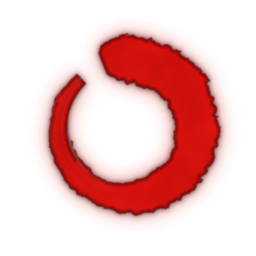
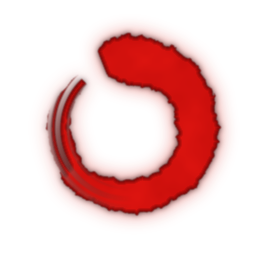
Итог раунда: знак кистью за заголовком — 死 при поражении (как экран смерти Секиро), 勝 при победе
Claude-Session: https://claude.ai/code/session_01JqUpyqddoJCmPqfiUgmopw

diff --git a/Assets/_Project/Scripts/Game/DuelHud.cs b/Assets/_Project/Scripts/Game/DuelHud.cs
@@ -268,6 +268,12 @@ namespace BladePath
                 if (duel.LastDraw) { title = "НИЧЬЯ"; c = new Color(0.85f, 0.85f, 0.9f, t); }
                 string sub = duel.TimedOut ? "ВРЕМЯ ВЫШЛО" : "";
                 if (duel.Perfect && !duel.LastDraw) sub = "ИДЕАЛЬНО";
+                // знак кистью за заголовком: 死 — поражение (как экран смерти Sekiro), 勝 — победа; проявляется мазком слева направо
+                if (!duel.TimedOut && !duel.LastDraw)
+                {
+                    float gt = Mathf.Clamp01((duel.StateTime - 0.35f) / 0.5f);
+                    if (gt > 0f) DrawBrush(won ? "UI/sho" : "UI/shi", new Vector2(cx, 172f), 330f * (1.08f - 0.08f * gt), 0.62f * gt, Mathf.Clamp01(gt * 1.6f));
+                }
                 if (sub.Length > 0) UiKit.Text(new Rect(cx - 300f, 70f, 600f, 44f), sub, 30f, new Color(1f, 0.85f, 0.35f, t));
                 UiKit.Text(new Rect(cx - 400f, 110f, 800f, 120f), title, duel.MatchOver ? 90f : 64f, c);
                 if (duel.MatchOver) DrawStats(cx, 240f, t);

diff --git a/tools/texgen/brush_glyphs.py b/tools/texgen/brush_glyphs.py
@@ -111,6 +111,8 @@ os.makedirs(OUT, exist_ok=True)
 make("忍殺", 300, 70, "deathblow.png")
 make("斬", 300, 70, "zan.png", square=True)
 make("危", 300, 70, "kiken.png", square=True)
+make("死", 300, 70, "shi.png", square=True)    # поражение (как экран смерти Sekiro)
+make("勝", 300, 70, "sho.png", square=True)    # победа
 
 
 def enso(name, S=256):
